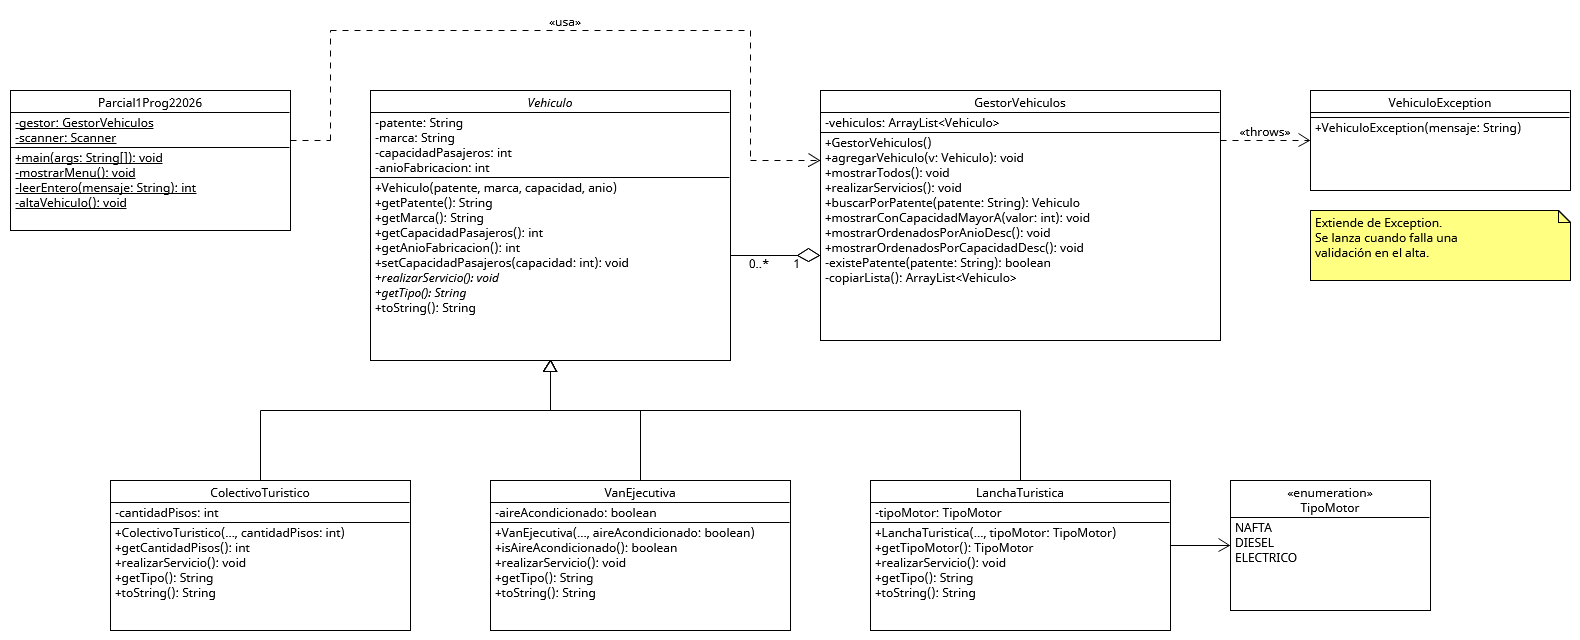
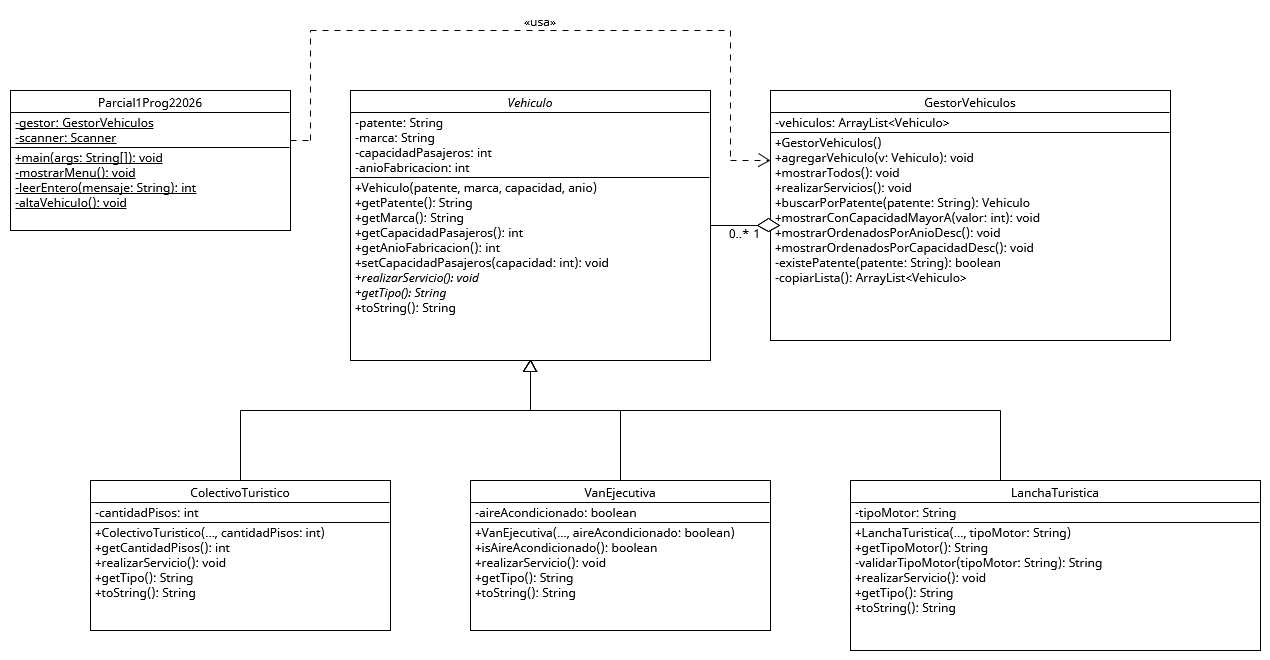
validacion de tipo motor con string y excepcion

diff --git a/src/parcial1prog2/pkg2026/LanchaTuristica.java b/src/parcial1prog2/pkg2026/LanchaTuristica.java
@@ -2,15 +2,26 @@ package parcial1prog2.pkg2026;
 
 public class LanchaTuristica extends Vehiculo {
 
-    private TipoMotor tipoMotor;
+    private String tipoMotor;
 
-    public LanchaTuristica(String patente, String marca, int capacidadPasajeros, int anioFabricacion, TipoMotor tipoMotor) {
+    public LanchaTuristica(String patente, String marca, int capacidadPasajeros, int anioFabricacion, String tipoMotor) throws VehiculoException {
         super(patente, marca, capacidadPasajeros, anioFabricacion);
-        this.tipoMotor = tipoMotor;
+        this.tipoMotor = validarTipoMotor(tipoMotor);
     }
 
-    public TipoMotor getTipoMotor() {
+    public String getTipoMotor() {
         return tipoMotor;
+    }
+
+    private String validarTipoMotor(String tipoMotor) throws VehiculoException {
+        if (tipoMotor == null || tipoMotor.trim().isEmpty()) {
+            throw new VehiculoException("El tipo de motor es obligatorio.");
+        }
+        String normalizado = tipoMotor.trim().toUpperCase();
+        if (!normalizado.equals("NAFTA") && !normalizado.equals("DIESEL") && !normalizado.equals("ELECTRICO")) {
+            throw new VehiculoException("Tipo de motor invalido: " + tipoMotor + ". Debe ser NAFTA, DIESEL o ELECTRICO.");
+        }
+        return normalizado;
     }
 
     @Override

diff --git a/src/parcial1prog2/pkg2026/VehiculoException.java b/src/parcial1prog2/pkg2026/VehiculoException.java
@@ -1,0 +1,8 @@
+package parcial1prog2.pkg2026;
+
+public class VehiculoException extends Exception {
+
+    public VehiculoException(String mensaje) {
+        super(mensaje);
+    }
+}
